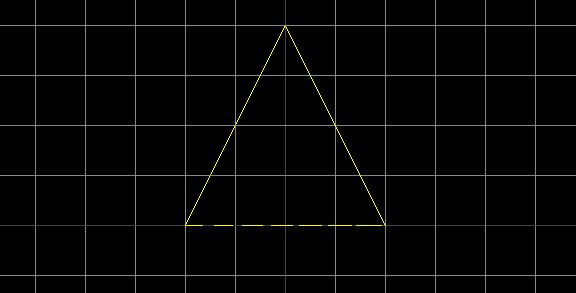
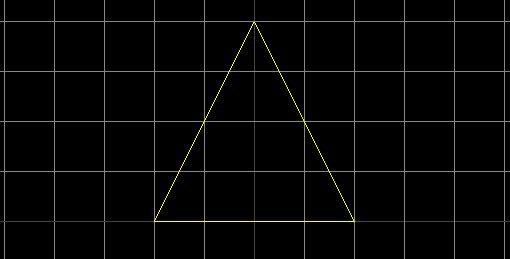
image update chpater 01~04

Changed region(s): [[0.0, 0.0, 1.0, 1.0]]

diff --git a/static/js/gl/line.js b/static/js/gl/line.js
@@ -87,8 +87,8 @@ var getNewLine = function( item1, item2 ) {
     var material = new THREE.LineBasicMaterial({ color: 0xffff00 });
     var geometry = new THREE.Geometry();
     geometry.vertices.push(
-        new THREE.Vector3( item1.data.x,0, item1.data.y),
-        new THREE.Vector3( item2.data.x,0, item2.data.y)
+        new THREE.Vector3( item1.data.x,-5, item1.data.y),
+        new THREE.Vector3( item2.data.x,-5, item2.data.y)
     );
     var line = new THREE.Line( geometry, material );
 

diff --git a/static/js/gl/rectangle.js b/static/js/gl/rectangle.js
@@ -94,8 +94,8 @@ var getNewLine = function( item1, item2 ) {
     var material = new THREE.LineBasicMaterial({ color: 0xffff00 });
     var geometry = new THREE.Geometry();
     geometry.vertices.push(
-        new THREE.Vector3( item1.data.x,0, item1.data.y),
-        new THREE.Vector3( item2.data.x,0, item2.data.y)
+        new THREE.Vector3( item1.data.x,-5, item1.data.y),
+        new THREE.Vector3( item2.data.x,-5, item2.data.y)
     );
     var line = new THREE.Line( geometry, material );
 

diff --git a/static/js/gl/triangle.js b/static/js/gl/triangle.js
@@ -94,8 +94,8 @@ var getNewLine = function( item1, item2 ) {
     var material = new THREE.LineBasicMaterial({ color: 0xffff00 });
     var geometry = new THREE.Geometry();
     geometry.vertices.push(
-        new THREE.Vector3( item1.data.x,0, item1.data.y),
-        new THREE.Vector3( item2.data.x,0, item2.data.y)
+        new THREE.Vector3( item1.data.x,-5, item1.data.y),
+        new THREE.Vector3( item2.data.x,-5, item2.data.y)
     );
     var line = new THREE.Line( geometry, material );
 
